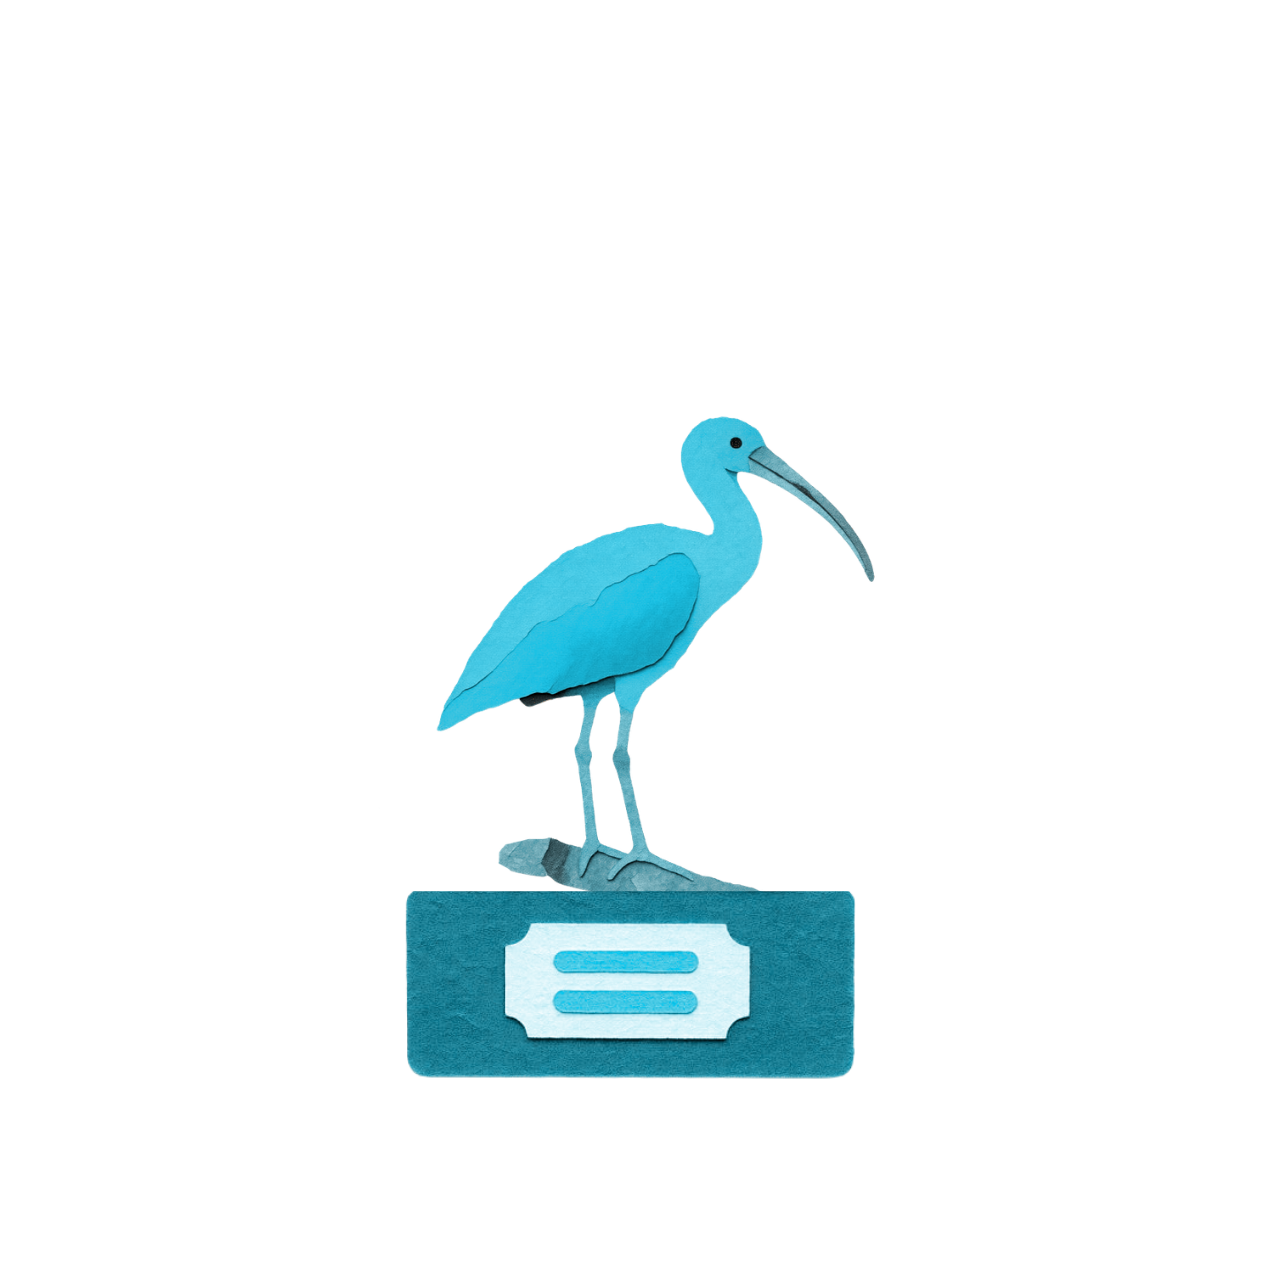
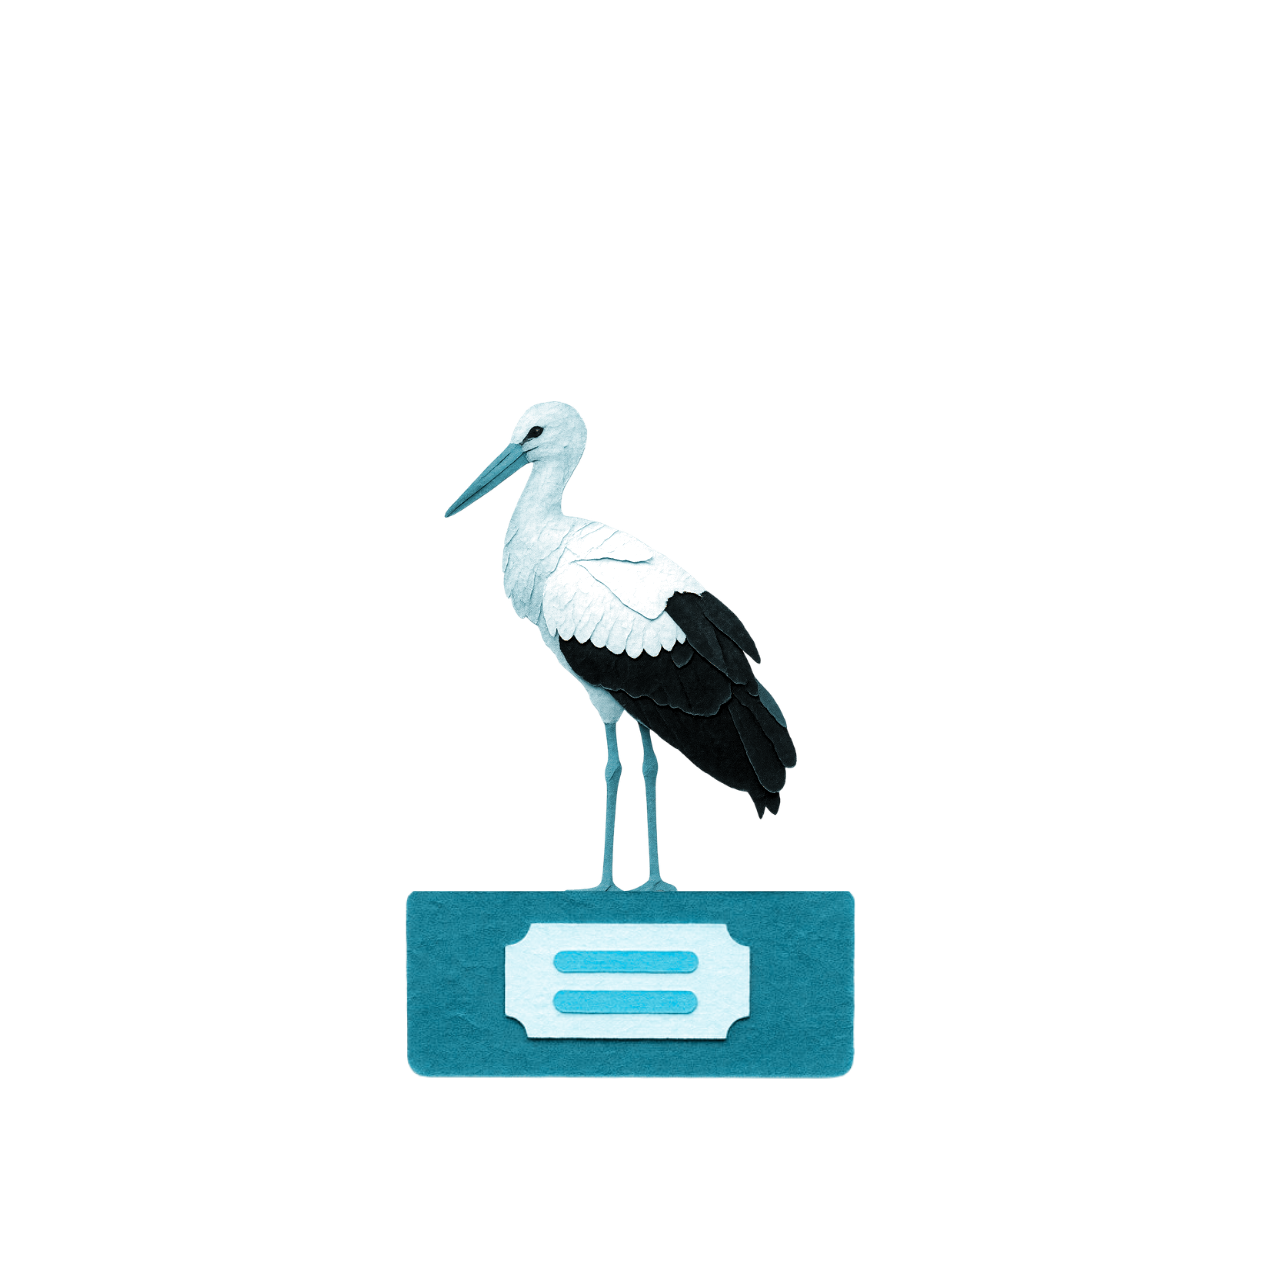
Visuels papier-craft dedies : Guepiers & rolliers (Coraciiformes) + Cigognes (Ciconiidae). Remplacent les placeholders. Cache v223.

Changed region(s): [[0.3394, 0.3085, 0.6479, 0.7097], [0.6788, 0.432, 0.7097, 0.4628], [0.6479, 0.4011, 0.6788, 0.432]]

diff --git a/service-worker.js b/service-worker.js
@@ -3,7 +3,7 @@
 //   puis rafraichit en background. Prochain reload = nouvelle version.
 // - Requetes cross-origin (Firestore, iNaturalist, xeno-canto, Wikipedia, etc.) : reseau seul.
 // - Bump CACHE_VERSION quand on veut invalider volontairement.
-const CACHE_VERSION = 'v222-2026-09-16-pelecaniformes-fusion-plus-cigogne-solo-plus-flamant-oneshot';
+const CACHE_VERSION = 'v223-2026-09-16-visuels-rollier-cigogne';
 const CACHE_NAME = 'lmb-' + CACHE_VERSION;
 
 self.addEventListener('install', (e) => {
